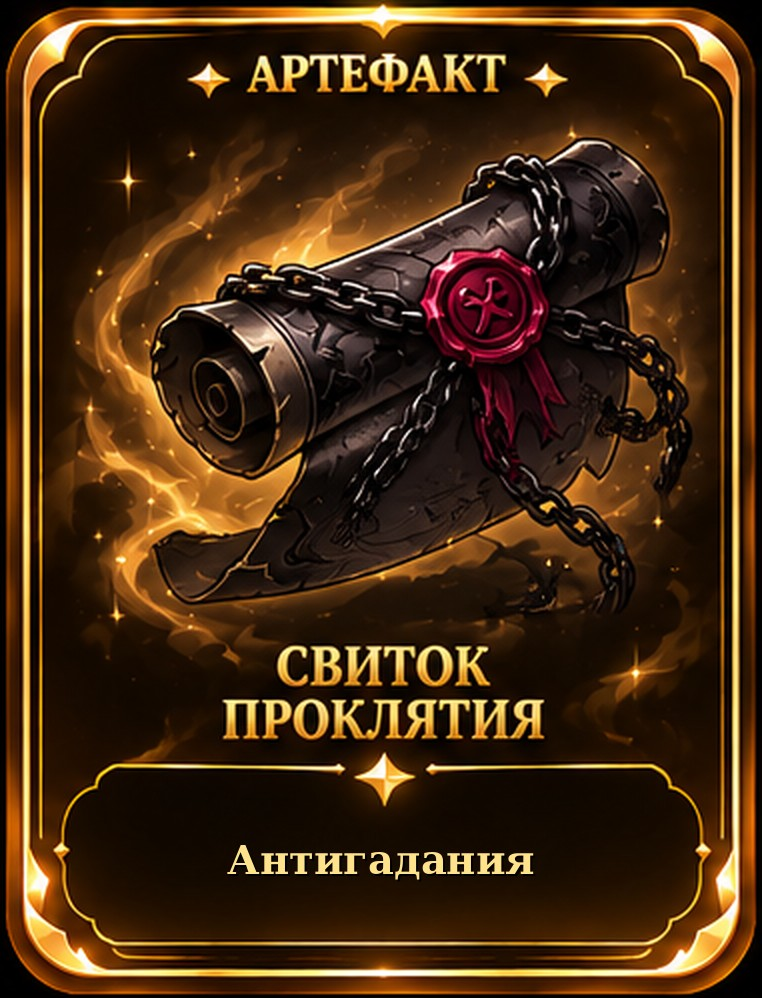
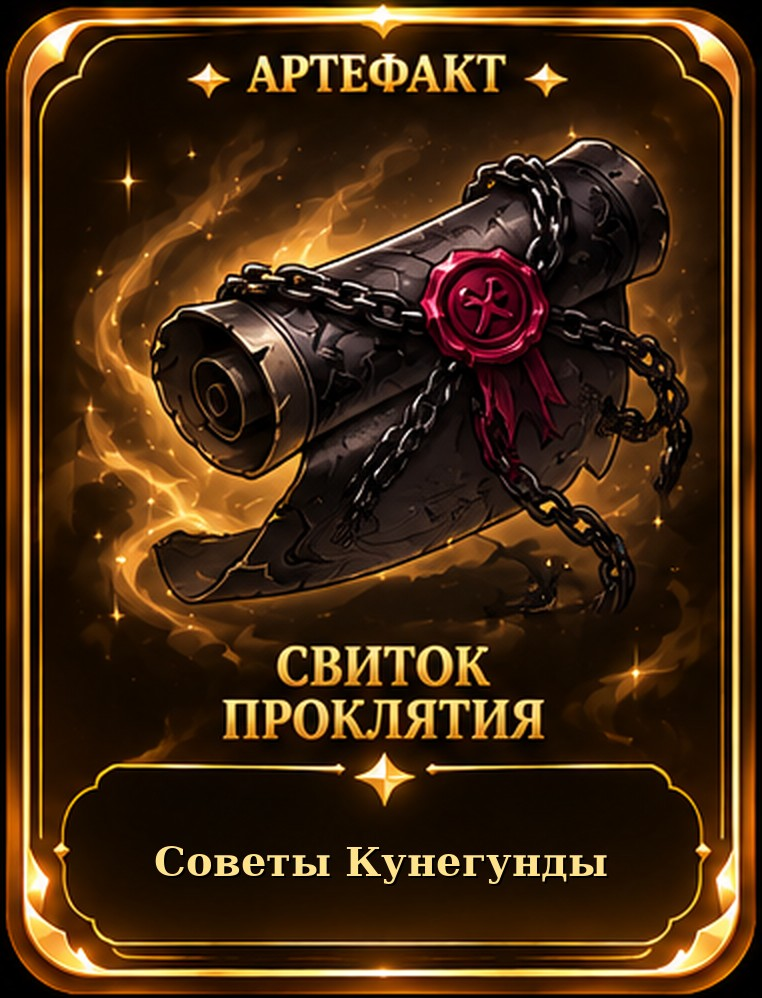
Дары без рисков: свиток — советы, книга — слово дня, безопасные правила стилей, сплетни и «кто думает» только про активных, пояснение у зелья забвения и маски
Claude-Session: https://claude.ai/code/session_0134NWPStwGwzkx1hiYgLEpU

Changed region(s): [[0.1811, 0.8387, 0.815, 0.9008]]

diff --git a/app.py b/app.py
@@ -1476,6 +1476,7 @@ def process_event_async(data):
         print(f"📩 [ДАННЫЕ] peer_id={peer_id}, from_id={from_id}, cmid={cmid}, text='{text}'")
         note_activity(peer_id, from_id)
         _gift_ctx.peer = peer_id
+        _gift_ctx.voice_bot = None
 
         # 1. Приглашение в беседу
         if action.get('type') in ['chat_invite_user', 'chat_invite_user_by_link']:
@@ -1596,10 +1597,11 @@ def process_event_async(data):
                     # гадание про мир игрового бота: повар — про кулинарию, диджей — про клуб и музыку...
                     bot = (pick_fresh("voice_bot", VOICE_BOTS, keep=4) if "npc_voice" in codes
                            else day_rng(from_id, "mask").choice(VOICE_BOTS))
+                    _gift_ctx.voice_bot = bot
                     topic, fact, focus = bot, NPC_INFO[bot], None
                     if "npc_voice" in codes:
                         bot_rule = (f"\n                в этот раз гадает не кунегунда, а {bot}. это {NPC_INFO[bot]}. "
-                                    f"говори его голосом и предскажи что-то из его мира в аватарии (то, чем он занимается). без имени бота в начале.")
+                                    f"говори его голосом и манерой, но понятно: одно предсказание из его мира в аватарии (то, чем он занимается). без имени бота в начале.")
                     else:
                         bot_rule = (f"\n                ты по рассеянности приняла собеседника за {bot} ({NPC_INFO[bot]}) "
                                     f"и гадаешь ему, как этому боту, про его работу в аватарии. смешно, но понятно.")
@@ -1611,12 +1613,13 @@ def process_event_async(data):
                 gossip = ""
                 gossip_name = None
                 if "gossip" in codes:
-                    others = [m for m in get_chat_members(peer_id) if m[0] != from_id] if peer_id > 2000000000 else []
+                    others = active_members(peer_id, from_id)
                     if others:
                         o = random.choice(others)
                         gossip_name = (o[1], o[3])
-                        gossip = (f"\n            у игрока перо болтливого попугая: добавь в конце короткую добрую смешную сплетню про участника беседы {o[1]} "
-                                  f"(придумай, что попугай подслушал про него в аватарии), без обидного.")
+                        gossip = (f"\n            в беседе перо болтливого попугая: добавь в конце одну короткую добрую сплетню про участника беседы {o[1]} "
+                                  f"только про хорошее или смешное в игре (например, тайно тренируется на гонках или копит на костюм). "
+                                  f"никакой внешности, отношений, оценок и обидного.")
                 # одна "изюминка" за раз: либо стиль артефакта, либо формат, либо прием, иначе получается каша
                 style_active = bool(codes & set(GIFT_PROMPT_RULES)) or bool(bot_rule)
                 fmt = angle = None
@@ -1630,8 +1633,10 @@ def process_event_async(data):
 
                 lore_rule = ""
                 max_sent, max_len, max_words = 2, 200, 25
-                if codes & {"gossip", "rhyme", "fairytale", "emoji"}:
+                if codes & {"gossip", "rhyme", "emoji"}:
                     max_sent, max_len, max_words = 3, 260, 32
+                if "double" in codes:
+                    max_sent, max_len, max_words = 1, 130, 15
 
                 sys_prompt = SYSTEM_PROMPT_BASE + f"""
                 предсказание делается про игру аватария, строго про одну тему:
@@ -1709,13 +1714,13 @@ _DECK = {
  "crown":            ("Корона беседы", "news", "Срочные новости", "каждое гадание приходит как срочная новость из аватарии", "корона, которую я нашла в сундуке, пока гонялась за сбежавшей ящерицей"),
  "moon_amulet":      ("Лунный амулет", "love_theme", "Гадания о любви", "все гадания про любовь и романтику", "амулет, который светится, когда о тебе кто-то думает перед сном"),
  "prophet_ball":     ("Пророческий шар", "emoji", "Гадания на эмодзи", "каждое гадание начинается с эмодзи-шифра и его разгадки", "шар, который я сама боюсь лишний раз протирать"),
- "curse_scroll":     ("Свиток проклятия", "reverse", "Антигадания", "проклятие наоборот: я предсказываю все наоборот, и выходит смешно", "свиток, который никто не может дочитать, потому что начинает чихать"),
+ "curse_scroll":     ("Свиток проклятия", "advice", "Советы Кунегунды", "вместо предсказаний я даю хитрый совет на день в аватарии", "свиток с советами, которые я сто лет собирала в своей пещере"),
  "forget_potion":    ("Зелье забвения", "npc_mask", "Кунегунда все путает", "я все забыла и путаю вас с ботами аватарии: гадаю вам, как диджею или повару", "зелье, после которого я забыла, куда положила свою метлу"),
  "illusion_mask":    ("Маска иллюзий", "npc_voice", "Гадают боты Аватарии", "вместо меня гадания рассказывают боты аватарии: диджей, повар, Пьер и другие", "маска, в которой я могу говорить чужими голосами"),
  "soul_lantern":     ("Фонарь душ", "admirer", "Кто о тебе думает", "в каждом гадании я называю, кто из беседы о тебе думает", "фонарь, который светит прямо в чужие мысли"),
  "star_amulet":      ("Звездный амулет", "horoscope", "Звездный гороскоп", "каждое гадание как гороскоп по звездам аватарии", "амулет из звезды, которая упала прямо в мою чашку чая"),
  "luck_potion":      ("Зелье удачи", "luck_percent", "Процент удачи", "к каждому гаданию я считаю процент удачи на сегодня", "зелье, от которого удача прилипает, как жвачка к подошве"),
- "wish_book":        ("Книга желаний", "fairytale", "Гадания-сказки", "каждое гадание как маленькая сказка: жили-были в аватарии...", "книга, в которой все сказки тропикании записаны чьим-то почерком"),
+ "wish_book":        ("Книга желаний", "word_day", "Слово дня", "к каждому гаданию я открываю книгу и называю твое волшебное слово дня", "книга, в которой на каждой странице только одно слово, но какое"),
  "crystal":          ("Волшебный кристалл", "talisman", "Камень-оберег дня", "к каждому гаданию я подбираю камень-оберег", "кристалл из самой глубокой пещеры, где я жила"),
  "inspire_feather":  ("Перо вдохновения", "rhyme", "Гадания в стихах", "все гадания я рассказываю в рифму", "перо, которым один поэт написал оду моему борщу"),
  "clover":           ("Четырехлистный клевер", "lucky_number", "Счастливое число", "к каждому гаданию я называю счастливое число дня", "клевер, который я сорвала у входа в пещеру в грозовую ночь"),
@@ -1748,8 +1753,8 @@ GIFT_RULES_TEXT = ("📜 как это работает:\n"
 # Как пользоваться даром: ничего нового учить не надо, все работает через обычные команды
 _FORTUNE_HOW = "пишите «гадать», как обычно"
 _LOVE_HOW = "пишите «суженый» или «суженая», как обычно"
-GIFT_HOW_TO = {c: _FORTUNE_HOW for c in ("double", "royal", "gothic", "news", "love_theme", "emoji", "reverse", "npc_mask",
-                                         "npc_voice", "admirer", "horoscope", "luck_percent", "fairytale", "talisman",
+GIFT_HOW_TO = {c: _FORTUNE_HOW for c in ("double", "royal", "gothic", "news", "love_theme", "emoji", "advice", "npc_mask",
+                                         "npc_voice", "admirer", "horoscope", "luck_percent", "word_day", "talisman",
                                          "rhyme", "lucky_number", "prophecy", "lore", "gossip")}
 GIFT_HOW_TO["extra1"] = "пишите «гадать», как обычно, лимит уже увеличен"
 GIFT_HOW_TO.update({c: _LOVE_HOW for c in ("love_extra", "love_match", "love_real", "love_cursed")})
@@ -2040,15 +2045,19 @@ def handle_gifts_command(peer_id, from_id, text, cmid):
     return False
 
 GIFT_PROMPT_RULES = {
-    "gothic": "в беседе мрачные дни: предскажи мрачно и драматично, как в готическом романе, но закончи хэппи-эндом.",
-    "news": "в беседе дни срочных новостей: подай предсказание как срочную новость из аватарии, начни со слов «срочно:» или «молния:».",
-    "love_theme": "в беседе лунные дни: гадание обязательно про любовь, симпатию или романтику в аватарии.",
-    "emoji": "начни ответ с цепочки из 3-5 эмодзи-шифра, а потом расшифруй их как предсказание.",
-    "reverse": "в беседе антигадания: предскажи все наоборот, нарочно абсурдно и смешно (например «ни в коем случае не выигрывай гонки»).",
-    "horoscope": "подай предсказание как гороскоп по звездам аватарии: придумай смешное созвездие и что оно сулит.",
-    "fairytale": "расскажи предсказание как маленькую сказку, начни словами «жили-были в аватарии».",
-    "rhyme": "напиши предсказание в рифму, двумя короткими рифмованными строчками.",
+    "gothic": "в беседе мрачные дни: начни одной мрачной таинственной фразой, а закончи светлым хэппи-эндом. легко и с улыбкой, не страшно.",
+    "news": "подай предсказание как короткую срочную новость из аватарии, начни со слова «молния:». весело, как живой ведущий, без канцелярских слов.",
+    "love_theme": "в беседе лунные дни: гадание про любовь в аватарии, в этот раз про {love_topic}.",
+    "emoji": "начни ответ с 3-4 эмодзи, которые прямо изображают предметы из предсказания, а потом коротко расшифруй их.",
+    "advice": "вместо предсказания дай один хитрый и полезный совет на сегодня в аватарии про этот факт, с легкой шуткой. начни со слов «мой совет:».",
+    "horoscope": "подай предсказание как гороскоп: созвездие назови по предмету из факта (например «созвездие Телескопа»), и в одной фразе скажи, что оно сулит.",
+    "rhyme": "напиши предсказание двумя короткими строчками в рифму. простые слова, смысл важнее рифмы.",
 }
+LOVE_TOPICS = ["свадьбу и кольца", "тайную симпатию", "свидание в кафе", "подарок от поклонника", "совместное фото",
+               "танец в клубе", "записку от кого-то", "прогулку в парке", "поцелуй в игре", "ревность и примирение"]
+WORDS_OF_DAY = ["ПИРОЖОК", "КОМЕТА", "ТАНЕЦ", "СЕРЕБРО", "ПОДУШКА", "ЖАБУЛЬКА", "КАЧЕЛИ", "ФОТО", "СУНДУК",
+                "ЛЕМУР", "КОРОНА", "ВАЛЕНТИНКА", "СЕРФ", "ДИДЖЕЙ", "КОМПЛИМЕНТ", "ЗОЛОТО", "СНЕЖОК", "ПИТОМЕЦ",
+                "ТЕЛЕСКОП", "КЛУБ", "СТИКЕР", "ПОДАРОК", "МУЗЫКА", "КАКТУС", "ПАЛЬМА", "БАТИСКАФ"]
 
 LUCKY_STONES = [("аметист", "бережет от лагов и вылетов"), ("янтарь", "притягивает золотые монеты"),
                 ("лунный камень", "помогает в любви"), ("изумруд", "к удаче в мини-играх"),
@@ -2060,6 +2069,15 @@ PROPHECY_FALLBACK = ["а завтра кто-то в беседе вспомни
 DECREE_FALLBACK = ["всем сегодня ставить реакции на сообщения монарха", "кто напишет «скучно», тот танцует в клубе первым",
                    "каждый пусть сделает комплимент соседу по беседе", "запрещено грустить до полуночи по МСК"]
 EMOJI_POOL = "🔮🍀🌙⭐💎🎁🦜🌶👑🎲🃏🕯☕🌈🔥💘"
+
+def active_members(peer_id, exclude_id):
+    """Участники беседы, которые недавно писали (их знают), иначе все участники."""
+    if not peer_id or peer_id < 2000000000:
+        return []
+    members = [m for m in get_chat_members(peer_id) if m[0] != exclude_id]
+    active = set(active_users(peer_id, days=GIFT_ACTIVE_DAYS))
+    recent = {u for (p, u, d), n in _msg_counts.items() if p == peer_id and n >= 1}
+    return [m for m in members if m[0] in (active or recent)] or members
 
 def day_rng(*key):
     """Случайность, которая одинакова весь день для одного и того же (человек, артефакт)."""
@@ -2083,6 +2101,11 @@ def apply_gift_extras(reply, codes, peer_id, from_id, sex, gossip_name=None):
     """То, что дар гарантирует сам бот (не надеясь на нейросеть)."""
     if "royal" in codes:
         reply = "👑 ваше величество, " + reply
+    if "npc_mask" in codes:
+        bot = day_rng(from_id, "mask").choice(VOICE_BOTS)
+        reply = f"🧪 (зелье забвения: сегодня я путаю тебя с ботом «{bot}»)\n" + reply
+    if "npc_voice" in codes and getattr(_gift_ctx, "voice_bot", None):
+        reply = f"🎭 сегодня гадает {_gift_ctx.voice_bot}:\n" + reply
     if "emoji" in codes:
         body = re.sub(r"^\[id\d+\|[^\]]*\],?\s*", "", reply.strip())
         if not body or ord(body[0]) < 0x2190:      # нейросеть не начала с эмодзи: добавляем шифр сами
@@ -2092,6 +2115,9 @@ def apply_gift_extras(reply, codes, peer_id, from_id, sex, gossip_name=None):
     if "gossip" in codes and gossip_name and gossip_name[0].lower()[:3] not in reply.lower():
         verb = "задумала" if gossip_name[1] == "f" else "задумал"
         reply += f"\n🦜 попугай шепчет, что {gossip_name[0]} сегодня что-то {verb} в аватарии..."
+    if "word_day" in codes:
+        word = day_rng(from_id, "word").choice(WORDS_OF_DAY)
+        reply += f"\n📖 твое слово дня: {word}. если сегодня услышишь или увидишь его в аватарии, это знак удачи"
     if "luck_percent" in codes:
         reply += f"\n🧪 твой процент удачи на сегодня: {day_rng(from_id, 'luck').randint(60, 100)}%"
     if "lucky_number" in codes:
@@ -2100,7 +2126,7 @@ def apply_gift_extras(reply, codes, peer_id, from_id, sex, gossip_name=None):
         stone, why = day_rng(from_id, "stone").choice(LUCKY_STONES)
         reply += f"\n💎 камень-оберег дня: {stone}, {why}"
     if "admirer" in codes:
-        others = [m for m in get_chat_members(peer_id) if m[0] != from_id] if peer_id and peer_id > 2000000000 else []
+        others = active_members(peer_id, from_id)
         if others:
             others.sort(key=lambda m: m[0])
             reply += f"\n💌 фонарь душ показывает, что сегодня о тебе думает {day_rng(from_id, 'admirer').choice(others)[1]}"
@@ -2113,7 +2139,8 @@ def apply_gift_extras(reply, codes, peer_id, from_id, sex, gossip_name=None):
 
 def gift_prompt_rule(user_id):
     """Добавка в промпт гадания, если в беседе действует артефакт."""
-    rules = [GIFT_PROMPT_RULES[c] for c in codes_of(user_id) if c in GIFT_PROMPT_RULES]
+    rules = [GIFT_PROMPT_RULES[c].replace("{love_topic}", random.choice(LOVE_TOPICS))
+             for c in codes_of(user_id) if c in GIFT_PROMPT_RULES]
     if not rules:
         return ""
     return ("\n            сегодня в беседе действует артефакт: " + " ".join(rules) +
